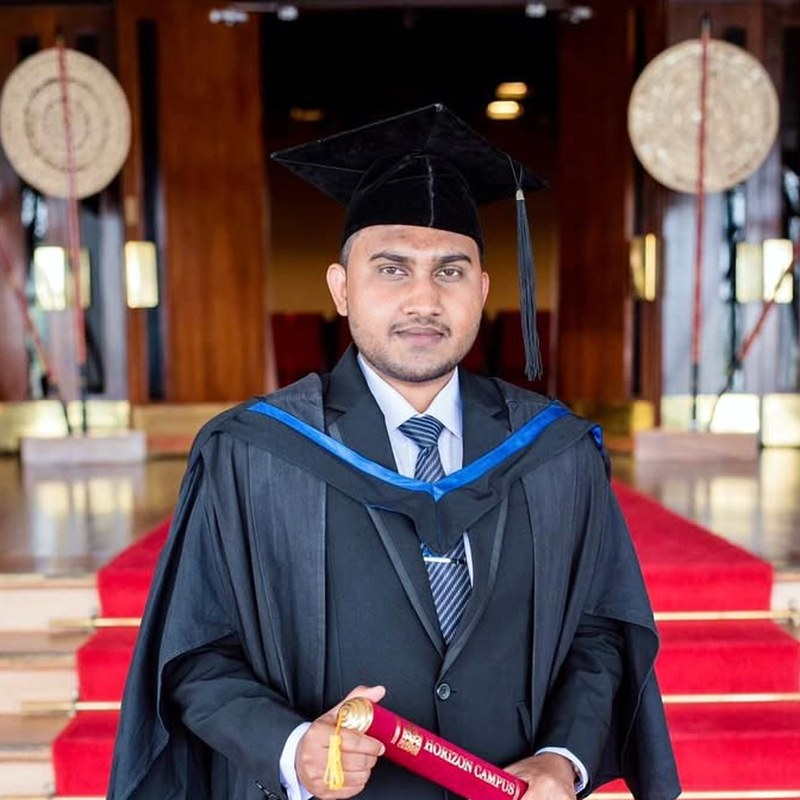
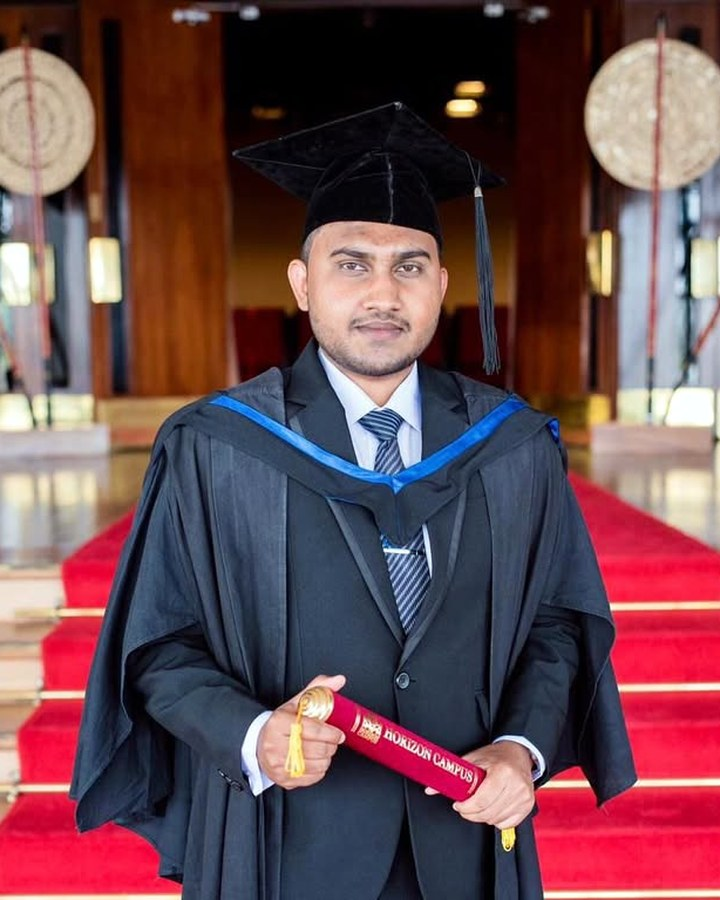
Graduation cards back to 4:5, at the height they were meant to be
Square was an overcorrection for a bug. With height:auto in place the
original 4:5 ratio renders as intended: 243x303 per card, 396px for the
strip, against 893px when the aspect ratio was being ignored and 336px as
squares. Crops regenerated at 4:5 with the head at 28% of the frame.

Claude-Session: https://claude.ai/code/session_01WvhRDge3ToZ8jrBB9JQYnv

diff --git a/about.html b/about.html
@@ -208,11 +208,11 @@
       <div class="h"><h2 id="ab-photos">Where they came from</h2></div>
       <div class="c">
         <div class="photo-strip">
-          <figure class="shot-p"><picture><source srcset="assets/img/about/graduation-mba.webp" type="image/webp"><img src="assets/img/about/graduation-mba.jpg" alt="Isuru Marasinghe graduating with an MBA from the University of Gloucestershire" width="800" height="800" loading="lazy" decoding="async"></picture><figcaption><b>University of Gloucestershire</b><span>MBA</span></figcaption></figure>
-          <figure class="shot-p"><picture><source srcset="assets/img/about/graduation-horizon.webp" type="image/webp"><img src="assets/img/about/graduation-horizon.jpg" alt="Isuru Marasinghe graduating from Horizon Campus, Sri Lanka" width="800" height="800" loading="lazy" decoding="async"></picture><figcaption><b>Horizon Campus</b><span>BM (Hons) Marketing, First Class</span></figcaption></figure>
-          <figure class="shot-p"><picture><source srcset="assets/img/about/graduation-cim.webp" type="image/webp"><img src="assets/img/about/graduation-cim.jpg" alt="Isuru Marasinghe graduating from the Chartered Institute of Marketing" width="800" height="800" loading="lazy" decoding="async"></picture><figcaption><b>Chartered Institute of Marketing</b><span>PgDip.M, Level 7</span></figcaption></figure>
-          <figure class="shot-p"><picture><source srcset="assets/img/about/graduation-esm.webp" type="image/webp"><img src="assets/img/about/graduation-esm.jpg" alt="Isuru Marasinghe at the ESM Business School and AIPQ graduation ceremony" width="800" height="800" loading="lazy" decoding="async"></picture><figcaption><b>ESM Business School</b><span>AIPQ &middot; Certified Digital Marketing Practitioner</span></figcaption></figure>
-          <figure class="shot-p"><picture><source srcset="assets/img/about/graduation-esm-pair.webp" type="image/webp"><img src="assets/img/about/graduation-esm-pair.jpg" alt="Isuru Marasinghe and his wife at the ESM Business School and AIPQ graduation ceremony" width="800" height="800" loading="lazy" decoding="async"></picture><figcaption><b>ESM Business School</b><span>Alongside my wife, an MBA Graduate of the University of Sunderland, UK and a fellow Certified Digital Marketing Practitioner</span></figcaption></figure>
+          <figure class="shot-p"><picture><source srcset="assets/img/about/graduation-mba.webp" type="image/webp"><img src="assets/img/about/graduation-mba.jpg" alt="Isuru Marasinghe graduating with an MBA from the University of Gloucestershire" width="720" height="900" loading="lazy" decoding="async"></picture><figcaption><b>University of Gloucestershire</b><span>MBA</span></figcaption></figure>
+          <figure class="shot-p"><picture><source srcset="assets/img/about/graduation-horizon.webp" type="image/webp"><img src="assets/img/about/graduation-horizon.jpg" alt="Isuru Marasinghe graduating from Horizon Campus, Sri Lanka" width="720" height="900" loading="lazy" decoding="async"></picture><figcaption><b>Horizon Campus</b><span>BM (Hons) Marketing, First Class</span></figcaption></figure>
+          <figure class="shot-p"><picture><source srcset="assets/img/about/graduation-cim.webp" type="image/webp"><img src="assets/img/about/graduation-cim.jpg" alt="Isuru Marasinghe graduating from the Chartered Institute of Marketing" width="720" height="900" loading="lazy" decoding="async"></picture><figcaption><b>Chartered Institute of Marketing</b><span>PgDip.M, Level 7</span></figcaption></figure>
+          <figure class="shot-p"><picture><source srcset="assets/img/about/graduation-esm.webp" type="image/webp"><img src="assets/img/about/graduation-esm.jpg" alt="Isuru Marasinghe at the ESM Business School and AIPQ graduation ceremony" width="720" height="900" loading="lazy" decoding="async"></picture><figcaption><b>ESM Business School</b><span>AIPQ &middot; Certified Digital Marketing Practitioner</span></figcaption></figure>
+          <figure class="shot-p"><picture><source srcset="assets/img/about/graduation-esm-pair.webp" type="image/webp"><img src="assets/img/about/graduation-esm-pair.jpg" alt="Isuru Marasinghe and his wife at the ESM Business School and AIPQ graduation ceremony" width="720" height="900" loading="lazy" decoding="async"></picture><figcaption><b>ESM Business School</b><span>Alongside my wife, an MBA Graduate of the University of Sunderland, UK and a fellow Certified Digital Marketing Practitioner</span></figcaption></figure>
         </div>
       </div>
     </section>

diff --git a/assets/css/site.css b/assets/css/site.css
@@ -695,7 +695,7 @@ footer .foot{padding-top:26px;}
 /* height:auto matters: the intrinsic height attribute is a presentational hint, and with
    no CSS height the box is definite, so aspect-ratio is ignored and the image renders at
    its natural height. */
-.shot-p img{width:100%;height:auto;aspect-ratio:1/1;object-fit:cover;display:block;
+.shot-p img{width:100%;height:auto;aspect-ratio:4/5;object-fit:cover;display:block;
   transition:transform var(--dur-hover) var(--ease);}
 .shot-p:hover img{transform:scale(1.015);}
 .shot-p figcaption{margin-top:11px;display:flex;flex-direction:column;gap:3px;}
